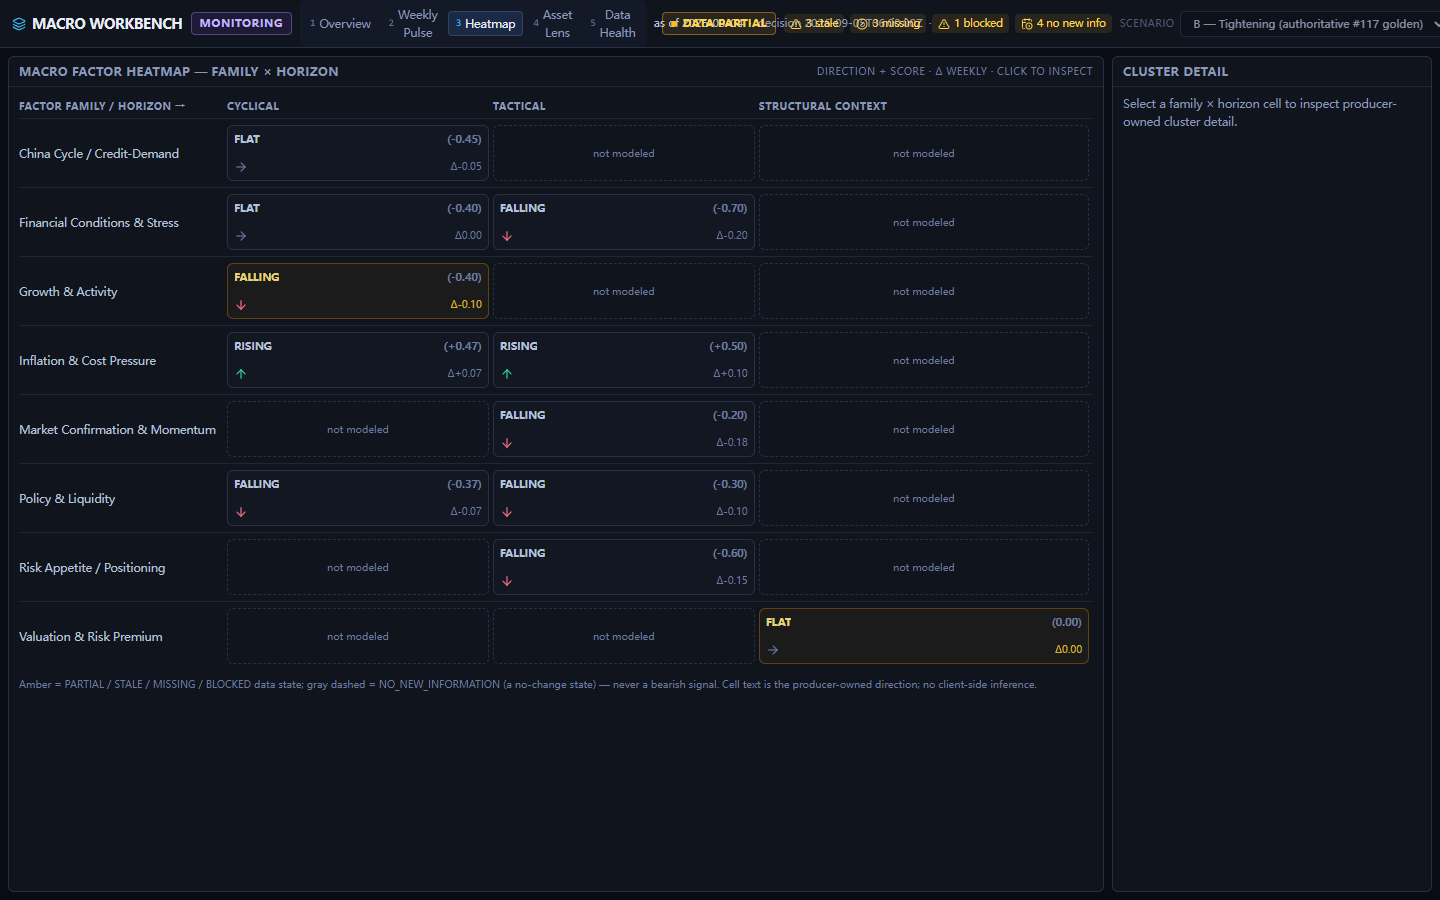
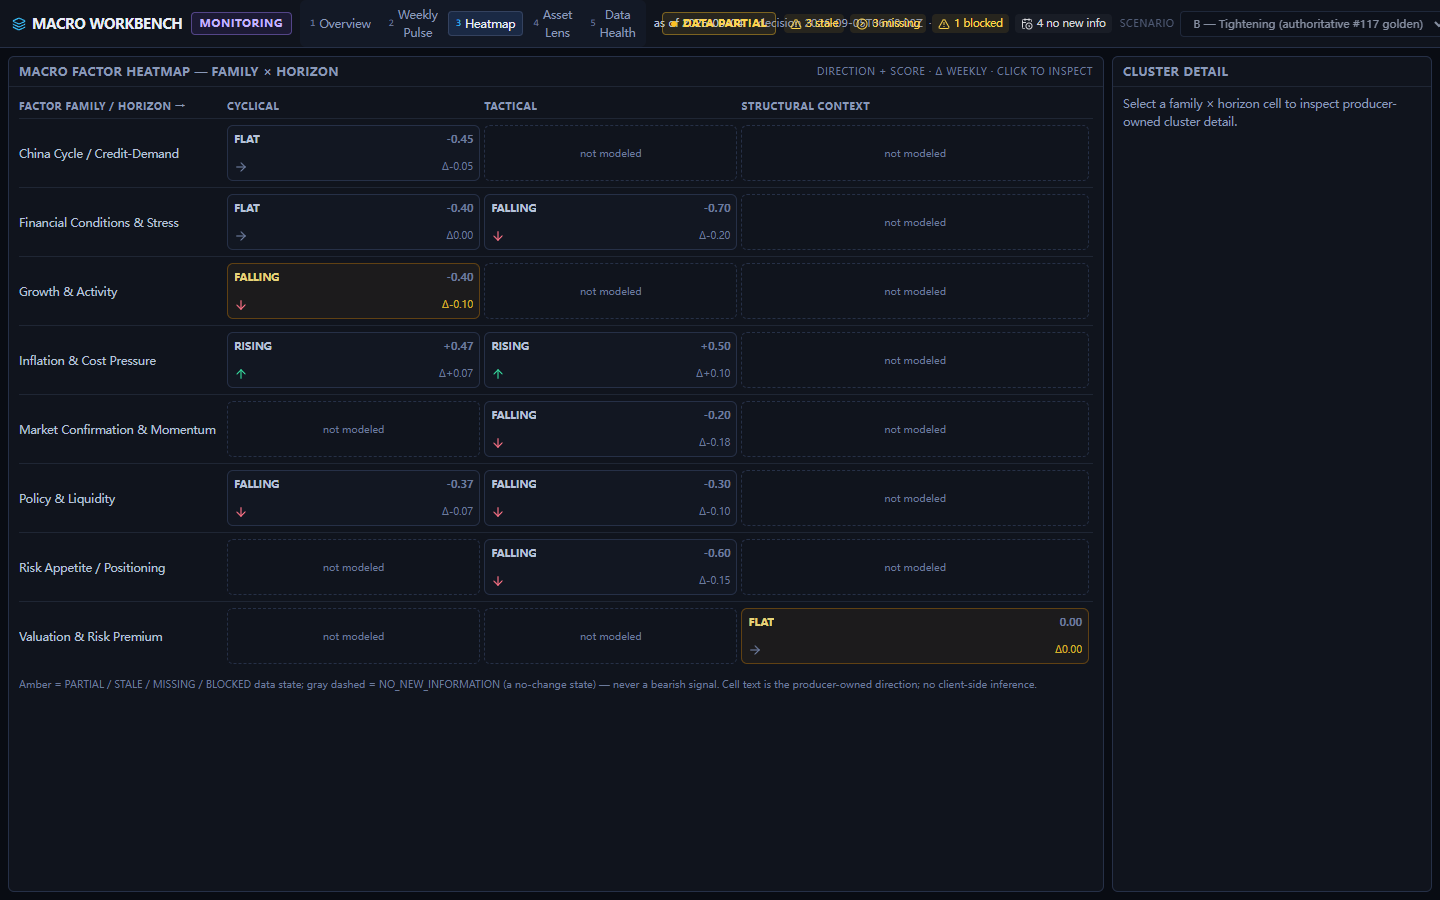
fix: address #118 UI-AUDIT findings (null-safety, quadrant enums, health semantics)
UI-AUDIT-01 (BLOCKER): Heatmap cluster score/weekly_delta/coverage are
nullable and top_positive/top_negative may be Contributor objects under the
legal DashboardSnapshotV0 contract. Render null as explicit unavailable dash
(never 0), consume Contributor {factor_id, contribution} safely in both the
cell and the drill-down. No crash on legal payloads.

UI-AUDIT-02: replace frontend 'SLOWDOWN' semantic alias with the producer
enum DISINFLATIONARY_SLUMP; keep human-readable display text. RegimeFocal
quadrant mapping now covers all four producer enums 1:1.

UI-AUDIT-03: shell data-health rollup gives NO_NEW_INFORMATION a neutral
gray (zinc) path, distinct from STALE/PARTIAL/MISSING/BLOCKED warning amber.
NO_NEW_INFORMATION != STALE != WARNING at the shell level.

UI-AUDIT-04: FreshnessChip PARTIAL (dashed amber, AlertTriangle) vs STALE
(solid amber, Clock) now differ in icon, border grammar and surface strength
- not just the label.

UI-AUDIT-06: contract/data error uses amber warning (not rose/red); the
'Genuine market-condition move' structural heading is neutral (only the signed
values carry direction color).

UI-AUDIT-05: deferred by WEB-CONTROL to #120 (YTD + multi-week stance history);
neither implemented nor inferred here.

Regressions: nullable heatmap values, Contributor objects, all four quadrant
enums, NO_NEW_INFORMATION shell semantics, PARTIAL vs STALE distinction,
non-directional color semantics. Tests 41 -> 51 PASS; build PASS; Overview
[…]

diff --git a/frontend/tests/remediation.test.jsx b/frontend/tests/remediation.test.jsx
@@ -1,0 +1,180 @@
+import { describe, expect, it, afterEach } from 'vitest'
+import { render, screen, cleanup } from '@testing-library/react'
+import App from '../src/App.jsx'
+import HeatmapPage from '../src/pages/HeatmapPage.jsx'
+import OverviewPage from '../src/pages/OverviewPage.jsx'
+import { FreshnessChip } from '../src/components/primitives.jsx'
+
+afterEach(cleanup)
+
+/* =====================================================================
+ * #118 UI-AUDIT remediation regressions (second收口).
+ * The legal DashboardSnapshotV0 producer contract permits nullable cluster
+ * score / weekly_delta, Contributor objects for top_positive/top_negative,
+ * and four quadrant enums. These regressions prove the UI consumes that
+ * contract without crashing, without inventing values, and without using
+ * directional colors on non-directional states.
+ * ===================================================================== */
+
+/* ---- UI-AUDIT-01: nullable heatmap values + Contributor objects ---- */
+
+function heatmapSnapshot() {
+  return {
+    clusters: [{
+      id: 'F@CYCLICAL',
+      family: 'F',
+      familyLabel: 'Factor',
+      horizon: 'CYCLICAL',
+      direction: 'FLAT',
+      score: null,
+      weekly_delta: null,
+      confidence: 0.5,
+      coverage: null,
+      freshness: 'PARTIAL',
+      freshness_status: 'PARTIAL',
+      top_positive: [{ factor_id: 'US_ISM_PMI', contribution: 0.12 }],
+      top_negative: [{ factor_id: 'CN_MFG_PMI', contribution: -0.3 }],
+      missing_factors: [],
+      stale_factors: [],
+    }],
+  }
+}
+
+describe('UI-AUDIT-01 — nullable cluster values and Contributor objects do not crash the Heatmap', () => {
+  it('primary heatmap cells render null score/delta as unavailable, never as zero', () => {
+    render(<HeatmapPage snapshot={heatmapSnapshot()} selectedCluster={null} setSelectedCluster={() => {}} />)
+    const cell = screen.getAllByTestId('heatmap-cell')[0]
+    expect(cell).toBeInTheDocument()
+    expect(cell).not.toHaveTextContent('0.00') // null must not degrade to 0
+  })
+
+  it('drill-down consumes Contributor objects and keeps null values unavailable', () => {
+    render(
+      <HeatmapPage snapshot={heatmapSnapshot()} selectedCluster="F@CYCLICAL" setSelectedCluster={() => {}} />,
+    )
+    const dd = screen.getByTestId('heatmap-drilldown')
+    expect(dd).toBeInTheDocument()
+    expect(dd).toHaveTextContent('us ism pmi')   // Contributor.factor_id consumed
+    expect(dd).toHaveTextContent('cn mfg pmi')
+    expect(dd).not.toHaveTextContent('0.000')     // null score not 0
+    expect(dd.textContent).toContain('—')         // explicit unavailable dash
+  })
+})
+
+/* ---- UI-AUDIT-02: all four producer quadrant enums render + activate ---- */
+
+function overviewSnapshot(quadrantLabel) {
+  const climateComp = { state: 'NEUTRAL', direction: 'FLAT', confidence: 0.5, coverage: 1 }
+  return {
+    macro_climate: { state: 'x', direction: 'FLAT', score: 0, confidence: 0.5, coverage: 1, summary: 'test summary' },
+    investment_climate: { state: 'NEUTRAL', direction: 'FLAT', confidence: 0.5, coverage: 1 },
+    climate: {
+      POLICY_LIQUIDITY: climateComp,
+      FINANCIAL_CONDITIONS: climateComp,
+      MARKET_CONFIRMATION: climateComp,
+      RISK_APPETITE: climateComp,
+    },
+    regime: {
+      quadrant_label: quadrantLabel,
+      growth_state: 'NEUTRAL',
+      growth_direction: 'FLAT',
+      inflation_state: 'NEUTRAL',
+      inflation_direction: 'FLAT',
+      dwell_weeks: 1,
+      transition: false,
+      confidence: 0.5,
+      coverage: 1,
+      lens_disagreement: { flag: false, summary: '' },
+    },
+    asset_views: [],
+    weekly_change: { events: [], information_status: 'UPDATED', stale_factors: [], market_moves: [] },
+    executive_brief: { what_changed: '', why_it_matters: '', what_to_watch: [] },
+  }
+}
+
+const QUADRANT_TO_CELL = {
+  GOLDILOCKS: 'soft landing',
+  REFLATION: 'expansion',
+  STAGFLATION_RISK: 'stagnation',
+  DISINFLATIONARY_SLUMP: 'contraction',
+}
+const QUADRANT_TO_SHORT = {
+  GOLDILOCKS: 'Goldilocks',
+  REFLATION: 'Reflation',
+  STAGFLATION_RISK: 'Stagflation',
+  DISINFLATIONARY_SLUMP: 'Disinfl. slump',
+}
+
+describe('UI-AUDIT-02 — all four producer quadrant enums render and activate the correct cell', () => {
+  for (const [label, cellLabel] of Object.entries(QUADRANT_TO_CELL)) {
+    it(`renders ${label} and activates the ${cellLabel} quadrant`, () => {
+      render(<OverviewPage snapshot={overviewSnapshot(label)} setSelectedAsset={() => {}} />)
+      expect(screen.getByTestId('regime-focal')).toHaveTextContent(QUADRANT_TO_SHORT[label])
+      // exactly one quadrant active, and it is the correct one (no missing state)
+      const allActive = document.querySelectorAll('[data-active="true"]')
+      expect(allActive.length).toBe(1)
+      expect(allActive[0].getAttribute('data-quadrant')).toBe(cellLabel)
+    })
+  }
+})
+
+/* ---- UI-AUDIT-03: NO_NEW_INFORMATION shell rollup is neutral, not warning ---- */
+
+describe('UI-AUDIT-03 — NO_NEW_INFORMATION shell rollup uses a neutral path, distinct from STALE', () => {
+  it('no-new-information chip is neutral (zinc) while stale/blocked chips are warning amber', () => {
+    render(<App />) // tightening fixture: 4 NO_NEW_INFORMATION, 3 stale, 3 missing, 1 blocked
+    const rollup = screen.getByTestId('stale-blocked-summary')
+    const chips = Array.from(rollup.querySelectorAll('[data-health-tone]'))
+
+    const nni = chips.find((c) => c.getAttribute('data-health-tone') === 'neutral')
+    expect(nni).toBeTruthy()
+    expect(nni.className).toContain('zinc')
+    expect(nni.className).not.toContain('amber')
+    expect(nni.className).not.toContain('status-warning')
+
+    const warnChips = chips.filter((c) => c.getAttribute('data-health-tone') === 'warn' && c.textContent.match(/stale|missing|blocked/))
+    expect(warnChips.length).toBeGreaterThan(0)
+    const warnCls = warnChips.map((c) => c.className).join(' ')
+    expect(warnCls).toContain('status-warning')
+    expect(warnCls).not.toContain('text-emerald')
+  })
+})
+
+/* ---- UI-AUDIT-04: PARTIAL and STALE differ in a non-text visual attribute ---- */
+
+describe('UI-AUDIT-04 — PARTIAL and STALE are visually distinct (not just label)', () => {
+  it('PARTIAL uses a dashed amber border while STALE uses a solid amber border', () => {
+    const p = render(<FreshnessChip status="PARTIAL" />)
+    const pc = p.container.firstChild
+    expect(pc.className).toContain('border-dashed')
+
+    cleanup()
+    const s = render(<FreshnessChip status="STALE" />)
+    const sc = s.container.firstChild
+    expect(sc.className).not.toContain('border-dashed')
+    expect(sc.className).toContain('border-solid')
+
+    expect(pc.className).not.toEqual(sc.className)
+  })
+})
+
+/* ---- UI-AUDIT-06: non-directional colors stay non-directional ---- */
+
+describe('UI-AUDIT-06 — structural / data surfaces must not carry directional red-green', () => {
+  it('Overview "Genuine market-condition move" heading is neutral, not positive green', () => {
+    render(<App />) // Overview default tightening
+    const heading = screen.getByText('Genuine market-condition move')
+    expect(heading.className).not.toContain('text-status-positive')
+    expect(heading.className).not.toContain('text-emerald')
+  })
+
+  it('data / contract surfaces carry no rose/red structural color', () => {
+    render(<App />)
+    const ribbon = screen.getByTestId('status-ribbon')
+    const classes = Array.from(ribbon.querySelectorAll('*')).map((n) => n.className ?? '').join(' ')
+    // contract error + shell must never look bearish (no rose/red)
+    expect(classes).not.toContain('rose-')
+    expect(classes).not.toContain('text-red')
+    expect(classes).not.toContain('border-red')
+  })
+})

diff --git a/frontend/src/pages/HeatmapPage.jsx b/frontend/src/pages/HeatmapPage.jsx
@@ -3,6 +3,33 @@ import { directionSign } from '../lib/format.js'
 
 const HORIZONS = ['CYCLICAL', 'TACTICAL', 'STRUCTURAL_CONTEXT']
 
+/* Null-safe numeric formatting. Legal DashboardSnapshotV0 producer payloads may
+ * emit score / weekly_delta / coverage as null (data unavailable). Those must
+ * render as an explicit unavailable dash — never silently become zero. */
+const NA = '—'
+function fmtNum(v, digits, signed = false) {
+  if (v === null || v === undefined || !Number.isFinite(v)) return NA
+  const sign = signed && v > 0 ? '+' : ''
+  return `${sign}${v.toFixed(digits)}`
+}
+
+/* Contributor object per the producer contract is { factor_id, contribution }.
+ * A contributed factor may also arrive as a plain string id. Consume safely. */
+function contributorLabel(t) {
+  if (t === null || t === undefined) return ''
+  if (typeof t === 'object') {
+    const name = String(t.factor_id ?? '').replaceAll('_', ' ').toLowerCase()
+    const c = t.contribution
+    const val = typeof c === 'number' && Number.isFinite(c) ? ` (${fmtNum(c, 2, true)})` : ''
+    return `${name}${val}`
+  }
+  return String(t).replaceAll('_', ' ').toLowerCase()
+}
+function contributorList(items) {
+  if (!Array.isArray(items) || items.length === 0) return '—'
+  return items.map(contributorLabel).filter(Boolean).join(', ') || '—'
+}
+
 /* Cell surface styling distinguishes every data state. The key invariant:
  * NO_NEW_INFORMATION is a gray dashed no-change state, never the amber used
  * for PARTIAL / STALE / MISSING — so NO_NEW_INFORMATION != STALE visually. */
@@ -23,19 +50,19 @@ function HeatCell({ cluster, selected, onClick }) {
     <button type="button"
       onClick={onClick}
       aria-pressed={selected}
-      title={`${cluster.id} — score ${cluster.score}, direction ${cluster.direction}, ${cluster.freshness}`}
+      title={`${cluster.id} — score ${fmtNum(cluster.score, 2)}, direction ${cluster.direction}, ${cluster.freshness}`}
       data-testid="heatmap-cell"
       className={`flex h-14 w-full flex-col items-start justify-between rounded-md border p-1.5 text-left transition-colors duration-75 ${
         selected ? 'ring-2 ring-status-accent ring-offset-1 ring-offset-surface-1 ' : ''
       }${state}`}>
       <span className="flex w-full items-center justify-between gap-1 text-[10.5px] font-semibold">
         <span className="truncate">{cluster.direction.replaceAll('_', ' ')}</span>
-        <span className="tabular-nums text-txt-metadata">({cluster.score > 0 ? '+' : ''}{cluster.score.toFixed(2)})</span>
+        <span className="tabular-nums text-txt-metadata">{fmtNum(cluster.score, 2, true)}</span>
       </span>
       <span className="flex w-full items-center justify-between gap-1">
         <DirectionArrow sign={directionSign(cluster.direction)} />
         <span className={`text-[10px] tabular-nums ${cluster.freshness === 'PARTIAL' || cluster.freshness === 'STALE' || cluster.freshness === 'MISSING' || cluster.freshness === 'BLOCKED' ? 'text-amber-300/80' : 'text-txt-metadata'}`}>
-          Δ{cluster.weekly_delta > 0 ? '+' : ''}{cluster.weekly_delta.toFixed(2)}
+          Δ{fmtNum(cluster.weekly_delta, 2, true)}
         </span>
       </span>
     </button>
@@ -64,16 +91,15 @@ function DrillDown({ cluster }) {
         <FreshnessChip status={cluster.freshness} />
       </div>
       <div className="flex flex-col gap-1.5">
-        <Field label="score"><span className="tabular-nums">{cluster.score.toFixed(3)}</span></Field>
-        <Field label="weekly_delta"><span className="tabular-nums">{cluster.weekly_delta > 0 ? '+' : ''}{cluster.weekly_delta.toFixed(3)}</span></Field>
+        <Field label="score"><span className="tabular-nums">{fmtNum(cluster.score, 3)}</span></Field>
+        <Field label="weekly_delta"><span className="tabular-nums">{fmtNum(cluster.weekly_delta, 3, true)}</span></Field>
         <Field label="direction">{cluster.direction}</Field>
-        <Field label="coverage"><span className="tabular-nums">{Math.round(cluster.coverage * 100)}%</span></Field>
-        <Field label="top_positive">
-          {cluster.top_positive.length ? cluster.top_positive.map((t) => t.replaceAll('_', ' ').toLowerCase()).join(', ') : '—'}
-        </Field>
-        <Field label="top_negative">
-          {cluster.top_negative.length ? cluster.top_negative.map((t) => t.replaceAll('_', ' ').toLowerCase()).join(', ') : '—'}
-        </Field>
+        <Field label="coverage"><span className="tabular-nums">{
+          cluster.coverage === null || cluster.coverage === undefined || !Number.isFinite(cluster.coverage)
+            ? NA : `${Math.round(cluster.coverage * 100)}%`
+        }</span></Field>
+        <Field label="top_positive">{contributorList(cluster.top_positive)}</Field>
+        <Field label="top_negative">{contributorList(cluster.top_negative)}</Field>
         <Field label="missing_factors" warn={cluster.missing_factors.length > 0}>
           {cluster.missing_factors.length ? cluster.missing_factors.join(', ') : '—'}
         </Field>

diff --git a/frontend/src/pages/OverviewPage.jsx b/frontend/src/pages/OverviewPage.jsx
@@ -14,18 +14,26 @@ import {
  * =====================================================================
  */
 
-/* Quadrant cell per backend quadrant_label (producer-owned classification). */
+/* Quadrant cell per backend quadrant_label (producer-owned classification).
+ * Four legal enum values only — GOLDILOCKS / REFLATION / STAGFLATION_RISK /
+ * DISINFLATIONARY_SLUMP. No frontend semantic alias such as SLOWDOWN. */
 const QUADRANT_CELLS = {
-  GOLDILOCKS: [1, -1],      // growth expanding (+1) × inflation decelerating (-1)
-  REFLATION: [1, 1],        // growth expanding × inflation accelerating
-  STAGFLATION_RISK: [-1, 1],// growth contracting × inflation accelerating
-  SLOWDOWN: [-1, -1],       // growth contracting × inflation decelerating
+  GOLDILOCKS: [1, -1],                       // growth expanding × inflation decelerating
+  REFLATION: [1, 1],                         // growth expanding × inflation accelerating
+  STAGFLATION_RISK: [-1, 1],                 // growth contracting × inflation accelerating
+  DISINFLATIONARY_SLUMP: [-1, -1],           // growth contracting × inflation decelerating
 }
-const QUADRANT_SHORT = { GOLDILOCKS: 'Goldilocks', REFLATION: 'Reflation', STAGFLATION_RISK: 'Stagflation', SLOWDOWN: 'Slowdown' }
+const QUADRANT_SHORT = {
+  GOLDILOCKS: 'Goldilocks',
+  REFLATION: 'Reflation',
+  STAGFLATION_RISK: 'Stagflation',
+  DISINFLATIONARY_SLUMP: 'Disinfl. slump',   // human-readable display; enum identity unchanged
+}
 
 function QuadCell({ label, short, active }) {
   return (
-    <div className={`relative flex items-center justify-center rounded-md border text-[12px] font-semibold transition-colors duration-75 ${
+    <div data-quadrant={label} data-active={active ? 'true' : 'false'}
+      className={`relative flex items-center justify-center rounded-md border text-[12px] font-semibold transition-colors duration-75 ${
       active
         ? 'border-status-accent/70 bg-surface-sel text-sky-100'
         : 'border-border-1 bg-surface-2/40 text-txt-metadata'
@@ -53,7 +61,7 @@ function RegimeFocal({ regime, macroClimate }) {
         <div className="grid h-full grid-cols-2 grid-rows-2 flex-1 gap-1 pb-2">
           <QuadCell label="stagnation" short="Stagfl. risk" active={g === -1 && i === 1} />
           <QuadCell label="expansion" short="Reflation" active={g === 1 && i === 1} />
-          <QuadCell label="contraction" short="Slowdown" active={g === -1 && i === -1} />
+          <QuadCell label="contraction" short="Disinfl. slump" active={g === -1 && i === -1} />
           <QuadCell label="soft landing" short="Goldilocks" active={g === 1 && i === -1} />
         </div>
         <div className="flex items-center justify-between border-t border-divider pt-1 text-[10px] text-txt-metadata">
@@ -229,7 +237,7 @@ function WhatChangedPanel({ weeklyChange }) {
       {/* B — genuine market-condition move */}
       <div className="flex shrink-0 flex-col">
         <div className="mb-1">
-          <SectionHeading tone="positive">Genuine market-condition move</SectionHeading>
+          <SectionHeading>Genuine market-condition move</SectionHeading>
         </div>
         <ul className="grid grid-cols-2 gap-x-4 gap-y-0.5 text-[11.5px]">
           {weeklyChange.market_moves.map((m) => (

diff --git a/frontend/src/App.jsx b/frontend/src/App.jsx
@@ -49,11 +49,13 @@ export default function App() {
   const dh = snapshot.data_health_summary ?? {}
   const noNewInfoCount = Object.values(dh.family_information_status ?? {})
     .filter((s) => s === 'NO_NEW_INFORMATION').length
+  // tone: 'warn' = health/warning grammar (stale/missing/blocked); 'neutral' =
+  // NO_NEW_INFORMATION — a no-change state, neutral gray/blue-gray, never amber.
   const rollup = [
-    { label: 'stale', value: dh.stale_components?.length ?? 0, Icon: AlertTriangle },
-    { label: 'missing', value: dh.missing_components?.length ?? 0, Icon: CircleSlash },
-    { label: 'blocked', value: dh.blockers?.length ?? 0, Icon: AlertTriangle },
-    { label: 'no new info', value: noNewInfoCount, Icon: CalendarClock },
+    { label: 'stale', value: dh.stale_components?.length ?? 0, Icon: AlertTriangle, tone: 'warn' },
+    { label: 'missing', value: dh.missing_components?.length ?? 0, Icon: CircleSlash, tone: 'warn' },
+    { label: 'blocked', value: dh.blockers?.length ?? 0, Icon: AlertTriangle, tone: 'warn' },
+    { label: 'no new info', value: noNewInfoCount, Icon: CalendarClock, tone: 'neutral' },
   ]
 
   const PageComponent = PAGES.find((p) => p.id === page)?.component ?? OverviewPage
@@ -94,7 +96,7 @@ export default function App() {
           })}
           {problems.length > 0 && (
             <span data-testid="snapshot-contract-errors" role="alert"
-              className="ml-1 rounded border border-rose-500/40 bg-rose-500/10 px-2 py-0.5 text-[10px] text-rose-300">
+              className="ml-1 rounded border border-amber-500/40 bg-amber-500/10 px-2 py-0.5 text-[10px] text-amber-300">
               contract: {problems.length}
             </span>
           )}
@@ -126,11 +128,13 @@ export default function App() {
             DATA {dh.overall ?? 'N/A'}
           </span>
           <div data-testid="stale-blocked-summary" className="flex items-center gap-1.5 text-[10.5px]">
-            {rollup.map(({ label, value, Icon }) => (
-              <span key={label}
+            {rollup.map(({ label, value, Icon, tone }) => (
+              <span key={label} data-health-tone={tone}
                 className={`inline-flex items-center gap-1 rounded px-1.5 py-0.5 ${
                   value > 0
-                    ? 'bg-status-warning/10 text-status-warning-fg'
+                    ? tone === 'warn'
+                      ? 'bg-status-warning/10 text-status-warning-fg'
+                      : 'bg-zinc-500/10 text-zinc-300' // neutral: no new information != warning
                     : 'bg-surface-2/50 text-txt-metadata'
                 }`}>
                 <Icon className="h-3 w-3" aria-hidden />

diff --git a/frontend/src/components/primitives.jsx b/frontend/src/components/primitives.jsx
@@ -1,4 +1,4 @@
-import { AlertTriangle, ArrowDown, ArrowRight, ArrowUp, CalendarClock, CircleSlash, Lock } from 'lucide-react'
+import { AlertTriangle, ArrowDown, ArrowRight, ArrowUp, CalendarClock, CircleSlash, Clock, Lock } from 'lucide-react'
 
 /* =====================================================================
  * Shared primitive layer (#118). These are the ONLY visual atoms shared
@@ -70,8 +70,11 @@ const FRESHNESS_CLASSES = {
   FRESH: 'bg-sky-500/10 text-sky-300 border-sky-500/30',
   UPDATED: 'bg-sky-500/10 text-sky-300 border-sky-500/30',
   NO_NEW_INFORMATION: 'bg-zinc-500/10 text-zinc-400 border-zinc-600/40 border-dashed',
-  PARTIAL: 'bg-amber-500/10 text-amber-300 border-amber-500/40',
-  STALE: 'bg-amber-500/10 text-amber-300 border-amber-500/40',
+  /* PARTIAL vs STALE are distinct states (PARTIAL != STALE): partial coverage
+   * is a softer dashed amber; stale (aged) is a heavier solid amber with an
+   * aging clock. Both stay in the amber warning family — never bearish. */
+  PARTIAL: 'bg-amber-500/5 text-amber-300/90 border-amber-500/40 border-dashed',
+  STALE: 'bg-amber-500/15 text-amber-200 border-amber-500/60 border-solid',
   MISSING: 'bg-amber-500/5 text-amber-400/90 border-amber-500/30 border-dashed',
   BLOCKED: 'bg-amber-500/10 text-amber-300 border-amber-500/50',
 }
@@ -81,7 +84,7 @@ const FRESHNESS_ICONS = {
   UPDATED: null,
   NO_NEW_INFORMATION: CalendarClock,
   PARTIAL: AlertTriangle,
-  STALE: AlertTriangle,
+  STALE: Clock,
   MISSING: CircleSlash,
   BLOCKED: Lock,
 }
